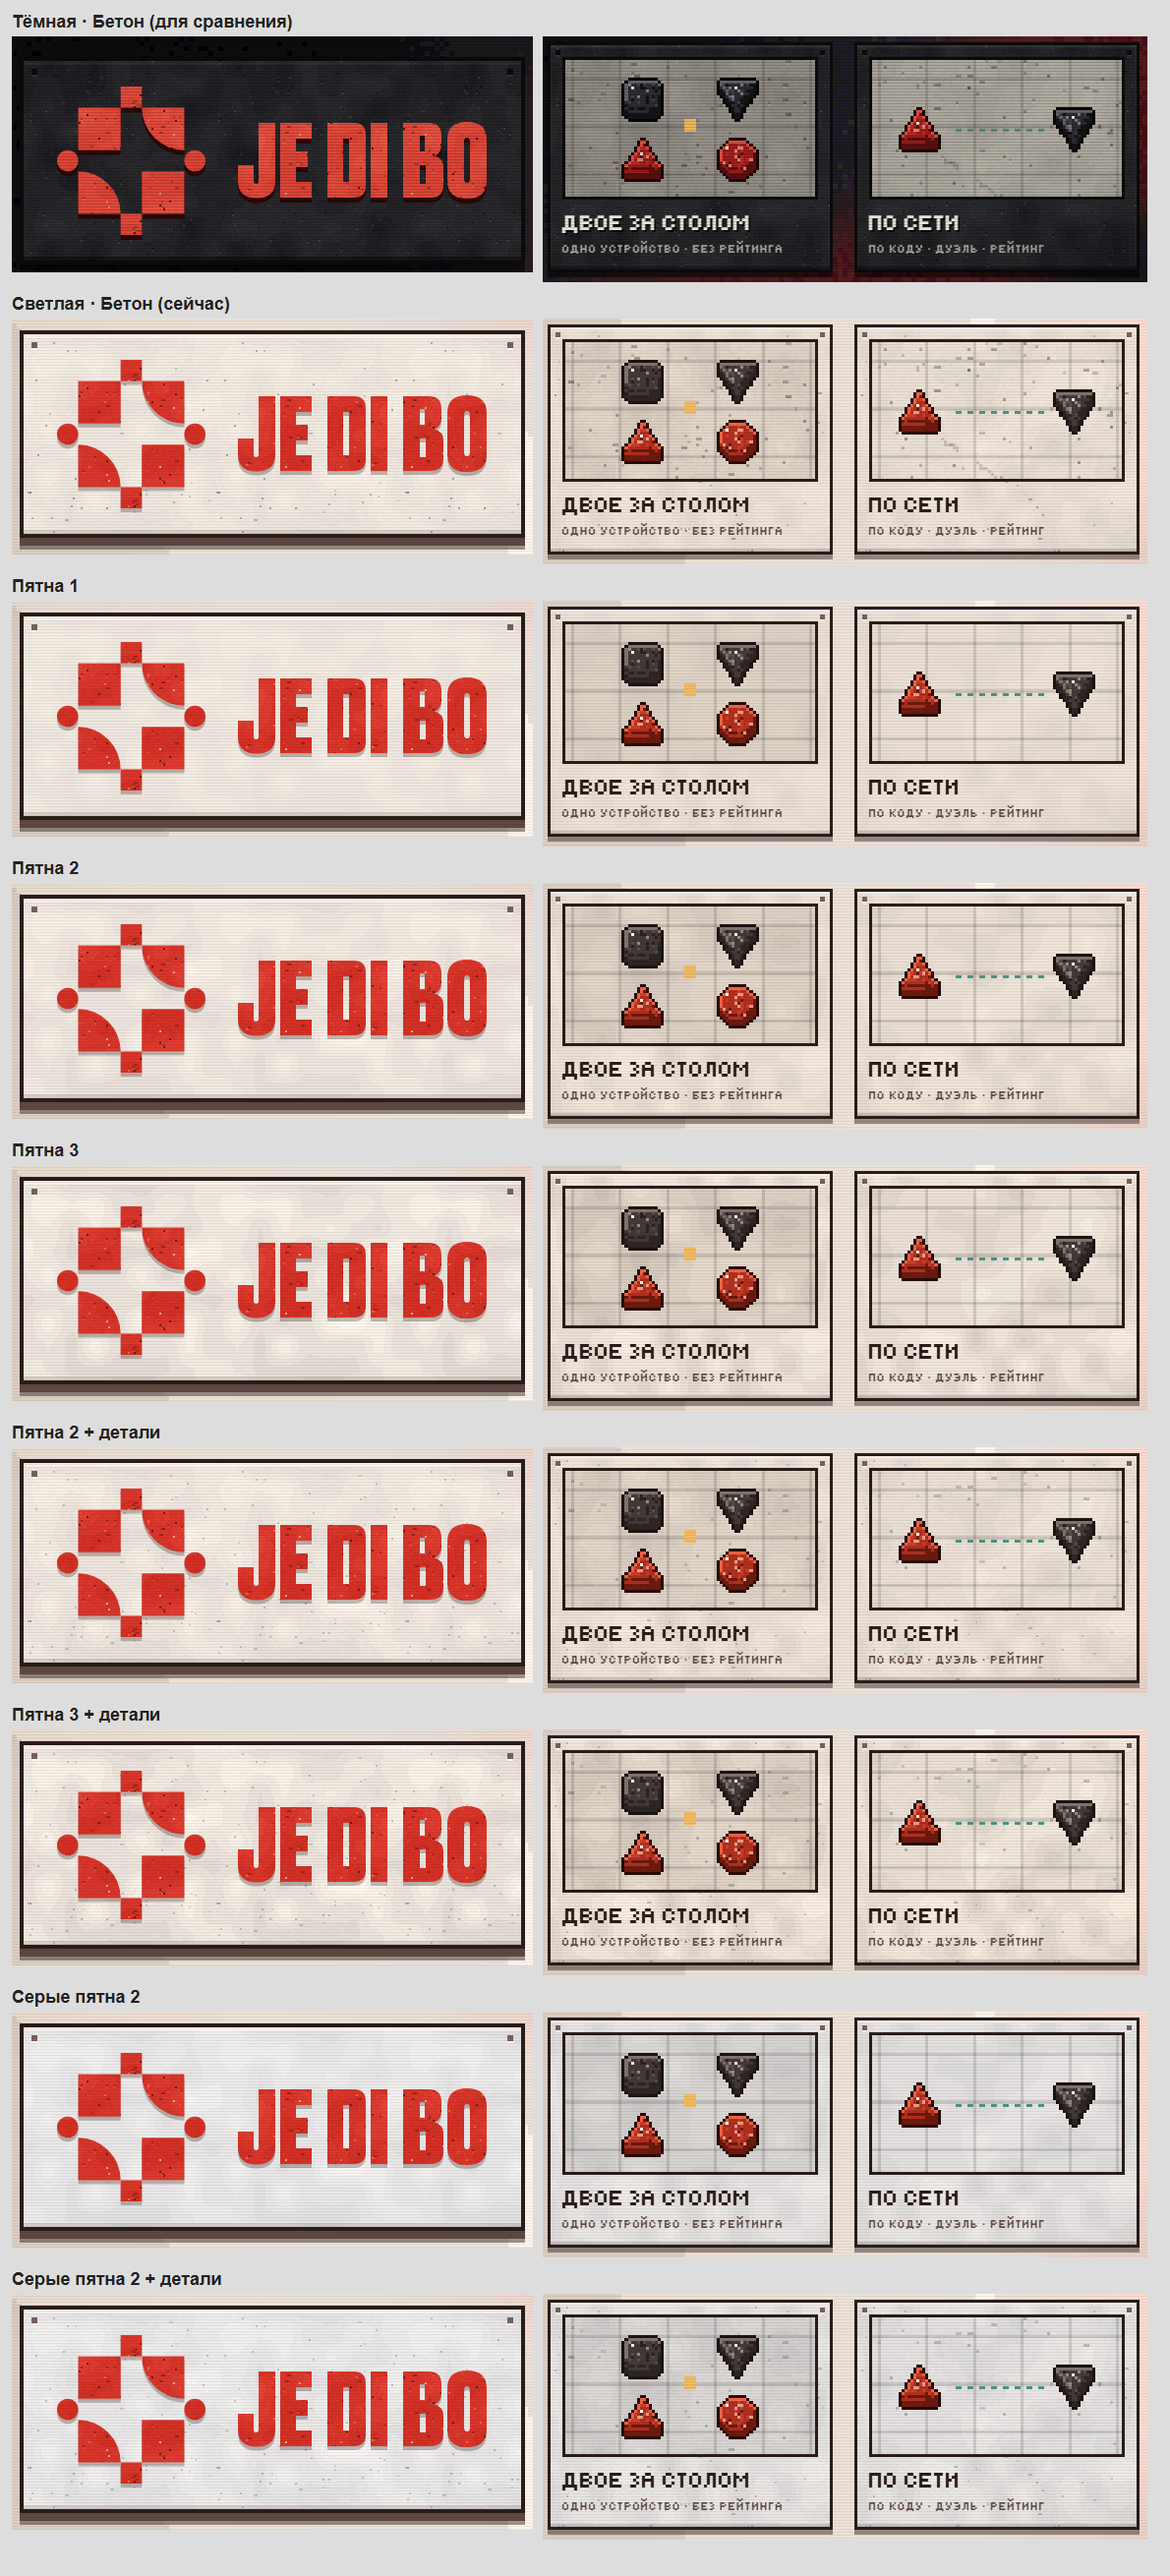
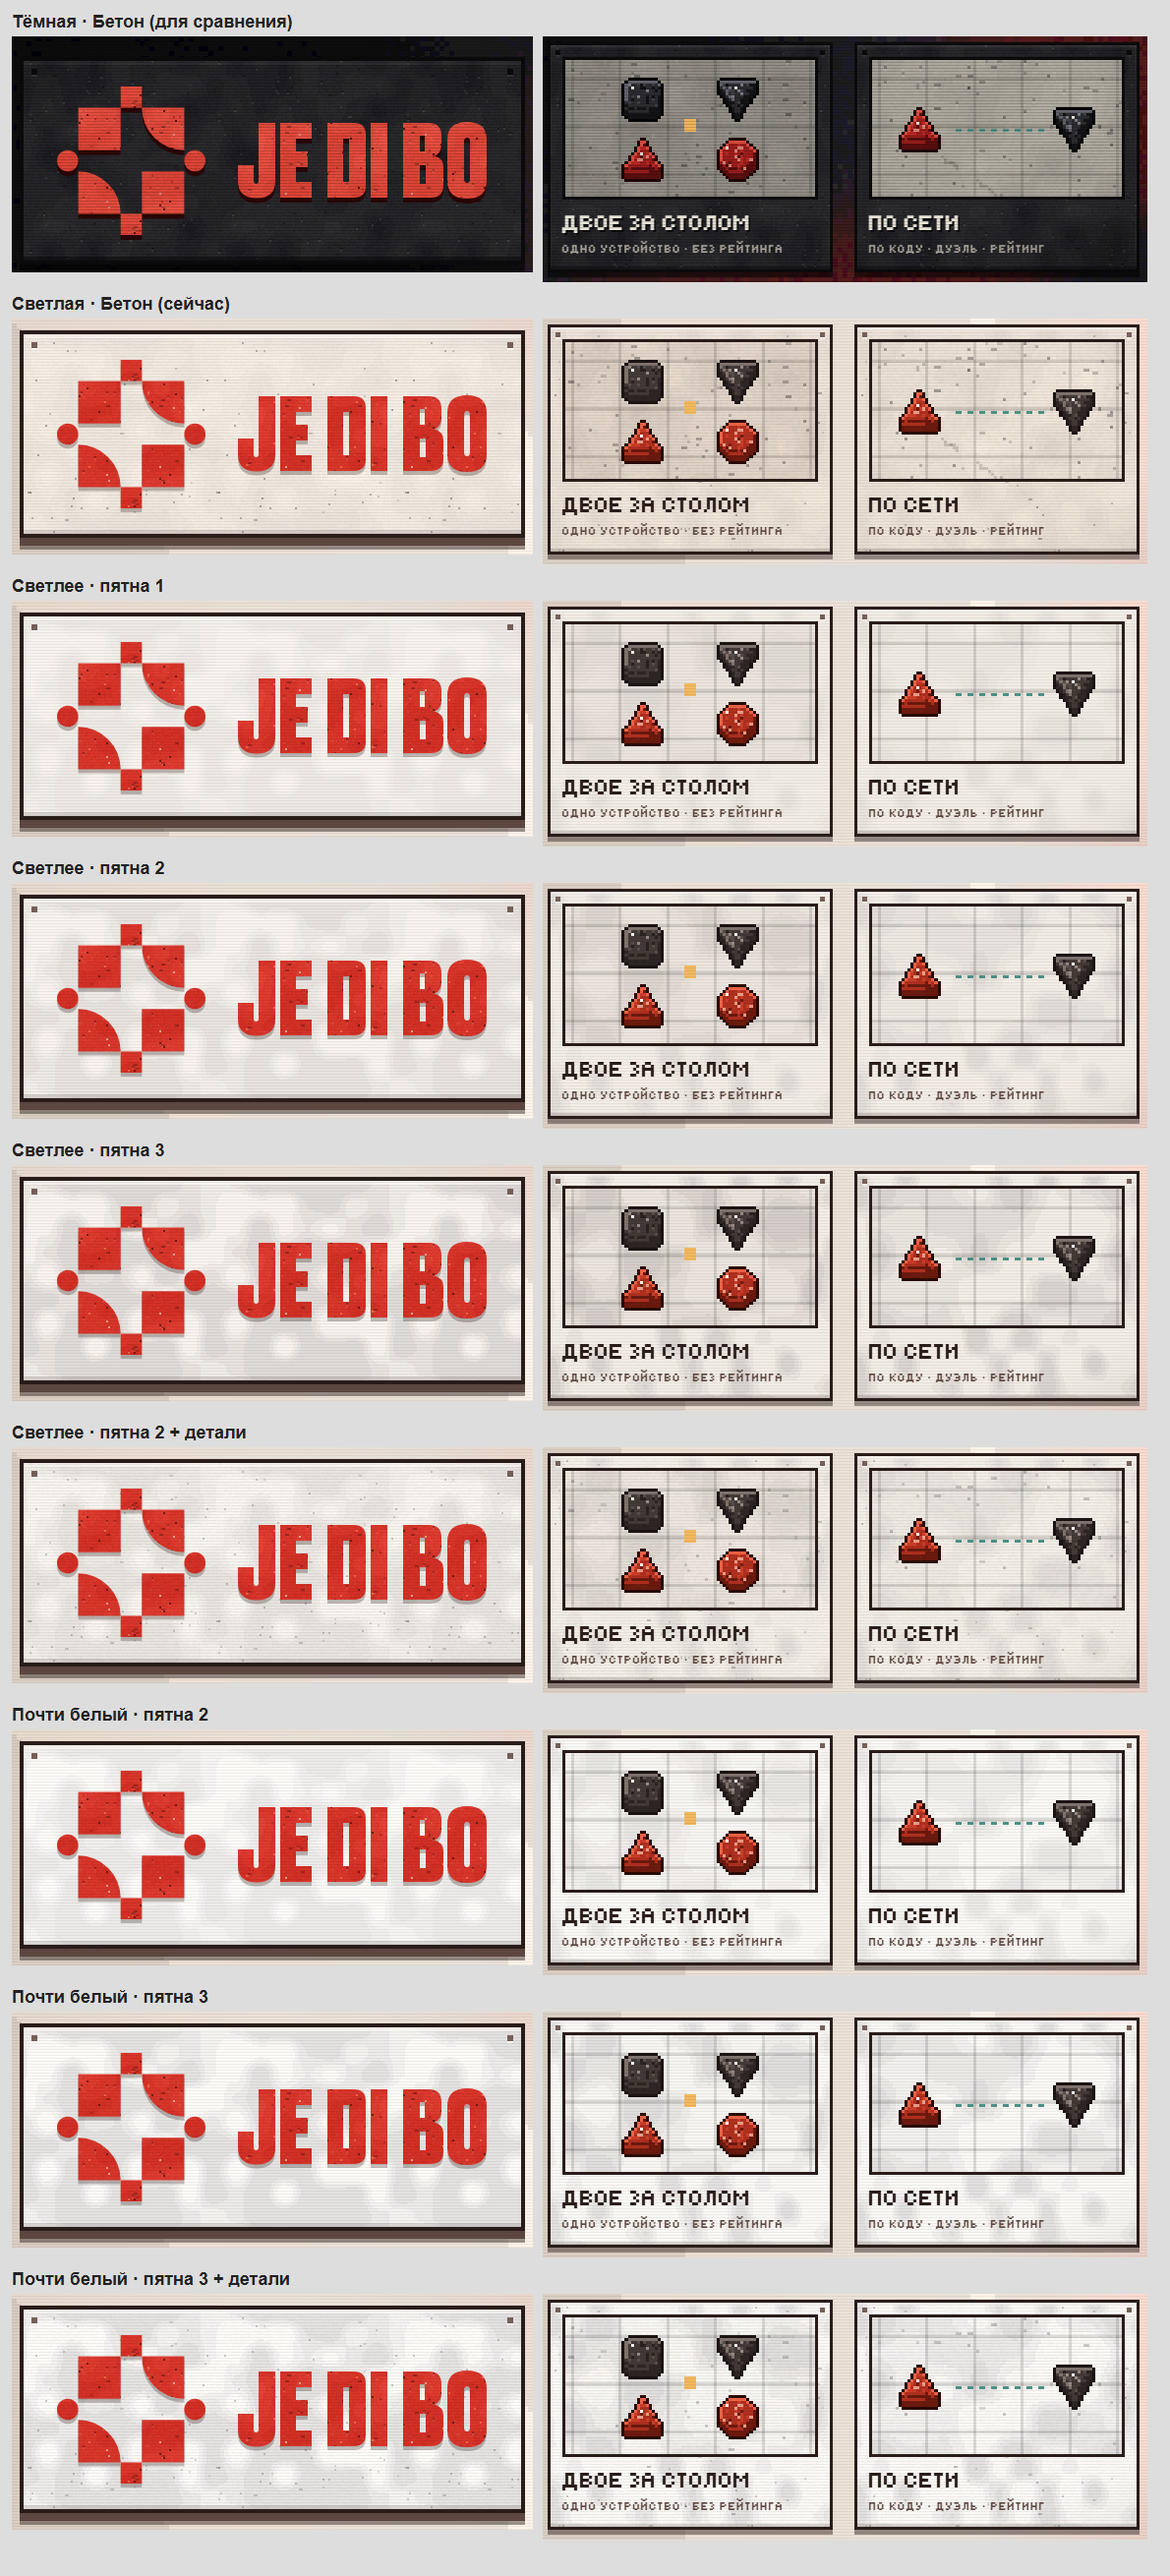
Фактура светлой темы: основа светлее, пятна только тёмные — два уровня светлоты, три глубины пятен, с деталями и без

diff --git a/src/render/textures.ts b/src/render/textures.ts
@@ -3,28 +3,29 @@
 import { PAL, THEME } from './palette';
 import { concreteTile, hexToRgb, makeCanvas, scaleCanvas, seeded, type Canvas } from './pixel';
 
-// пятна: s1–s3 — сила пятен, «d» — с деталями (зерно, поры, крупинки), g — серая основа
+// пятна: светлая основа (lift — насколько основа осветлена к белому) и только тёмные пятна (amp — их глубина);
+// details — мелкое зерно и поры поверх
 const BLOTS = {
-  s1: { amp: 6, details: false, gray: false },
-  s2: { amp: 11, details: false, gray: false },
-  s3: { amp: 16, details: false, gray: false },
-  s2d: { amp: 11, details: true, gray: false },
-  s3d: { amp: 16, details: true, gray: false },
-  g2: { amp: 11, details: false, gray: true },
-  g2d: { amp: 11, details: true, gray: true },
+  l1s1: { lift: 0.45, amp: 10, details: false },
+  l1s2: { lift: 0.45, amp: 16, details: false },
+  l1s3: { lift: 0.45, amp: 24, details: false },
+  l1s2d: { lift: 0.45, amp: 16, details: true },
+  l2s2: { lift: 0.8, amp: 16, details: false },
+  l2s3: { lift: 0.8, amp: 24, details: false },
+  l2s3d: { lift: 0.8, amp: 24, details: true },
 } as const;
 type Blot = keyof typeof BLOTS;
 
 export type TexConcept = 'concrete' | 'cool' | 'smooth' | 'dither' | 'terrazzo' | Blot;
-export const TEX_CONCEPTS: TexConcept[] = ['concrete', 's1', 's2', 's3', 's2d', 's3d', 'g2', 'g2d', 'cool', 'smooth', 'dither', 'terrazzo'];
+export const TEX_CONCEPTS: TexConcept[] = ['concrete', 'l1s1', 'l1s2', 'l1s3', 'l1s2d', 'l2s2', 'l2s3', 'l2s3d', 'cool', 'smooth', 'dither', 'terrazzo'];
 export const TEX_NAMES: Record<TexConcept, string> = {
-  s1: 'Пятна 1',
-  s2: 'Пятна 2',
-  s3: 'Пятна 3',
-  s2d: 'Пятна 2 + детали',
-  s3d: 'Пятна 3 + детали',
-  g2: 'Серые пятна 2',
-  g2d: 'Серые пятна 2 + детали',
+  l1s1: 'Светлее · пятна 1',
+  l1s2: 'Светлее · пятна 2',
+  l1s3: 'Светлее · пятна 3',
+  l1s2d: 'Светлее · пятна 2 + детали',
+  l2s2: 'Почти белый · пятна 2',
+  l2s3: 'Почти белый · пятна 3',
+  l2s3d: 'Почти белый · пятна 3 + детали',
   concrete: 'Бетон',
   cool: 'Серый бетон',
   smooth: 'Гладкий',
@@ -90,8 +91,8 @@ function smoothTile(w: number, h: number, base: RGB, seed: number): Canvas {
   return c;
 }
 
-/** Пятна, как у тёмного бетона: крупные мягкие пятна схватывания ступенями, рисунок по сиду.
- *  amp — сила пятен; details — мелкое зерно, поры и светлые крупинки поверх. */
+/** Пятна схватывания: чистая основа и тёмные пятна ступенями (как у тёмного бетона), рисунок по сиду.
+ *  amp — глубина пятен; details — мелкое зерно и поры поверх. */
 function blotTile(w: number, h: number, base: RGB, seed: number, amp: number, details: boolean): Canvas {
   const [c, g] = makeCanvas(w, h);
   const rnd = seeded(seed);
@@ -110,7 +111,9 @@ function blotTile(w: number, h: number, base: RGB, seed: number, amp: number, de
       const tx = sm(fx - i0);
       const ty = sm(fy - j0);
       const v = (at(i0, j0) * (1 - tx) + at(i0 + 1, j0) * tx) * (1 - ty) + (at(i0, j0 + 1) * (1 - tx) + at(i0 + 1, j0 + 1) * tx) * ty;
-      let n = (Math.round(v * 4) / 4) * amp * 1.8;
+      // только затемнение: светлее среднего — чистая основа, дальше 3 ступени вглубь
+      const t = Math.max(0, Math.min(1, (0.08 - v) / 0.42));
+      let n = -(Math.ceil(t * 3) / 3) * amp;
       if (details) n += (rnd() - 0.5) * 5;
       const i = (y * w + x) * 4;
       img.data[i] = base[0] + n;
@@ -208,7 +211,10 @@ export function surfaceTile(w: number, h: number, base: RGB, seed: number, opts:
   const dark = darker ?? ([base[0] - 14, base[1] - 14, base[2] - 14] as RGB);
   if (concept in BLOTS) {
     const b = BLOTS[concept as Blot];
-    return blotTile(w, h, b.gray ? neutral(base) : base, seed, b.amp, b.details);
+    // осветляем только в светлой теме: в тёмной пятна и так тёмные на тёмном
+    const k = THEME.scheme === 'light' ? b.lift : 0;
+    const lifted: RGB = [base[0] + (255 - base[0]) * k, base[1] + (255 - base[1]) * k, base[2] + (253 - base[2]) * k];
+    return blotTile(w, h, lifted, seed, b.amp, b.details);
   }
   switch (concept) {
     case 'cool':
